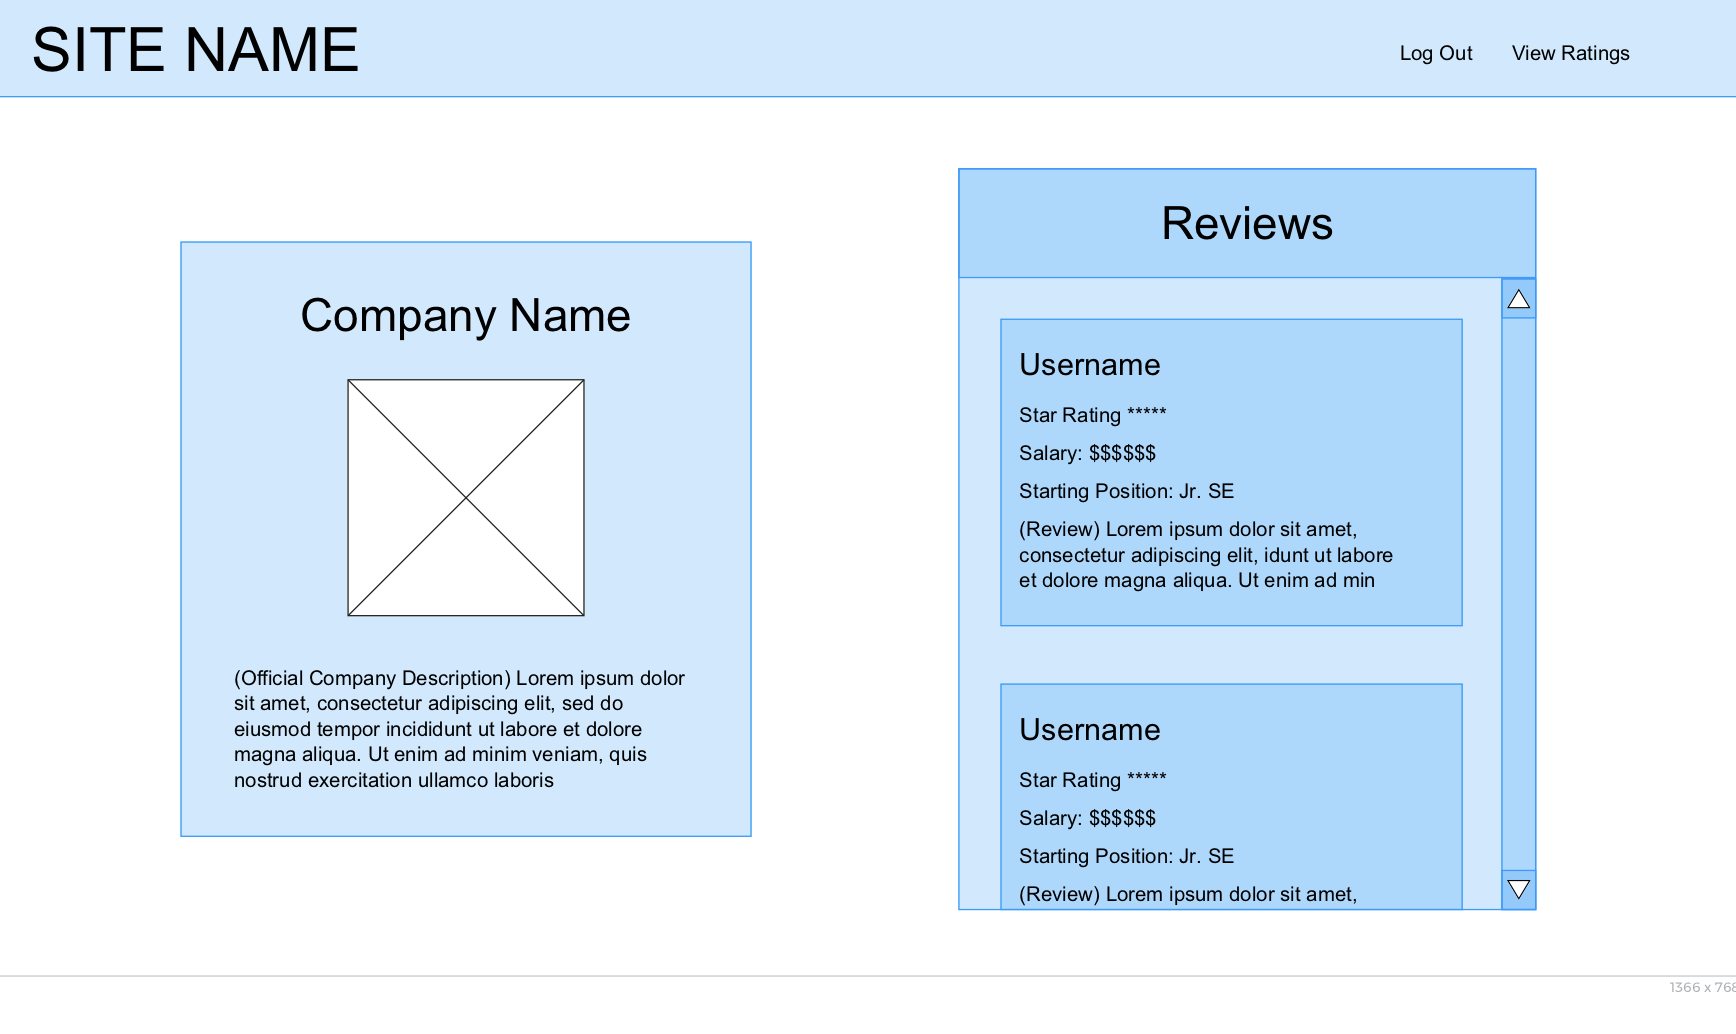
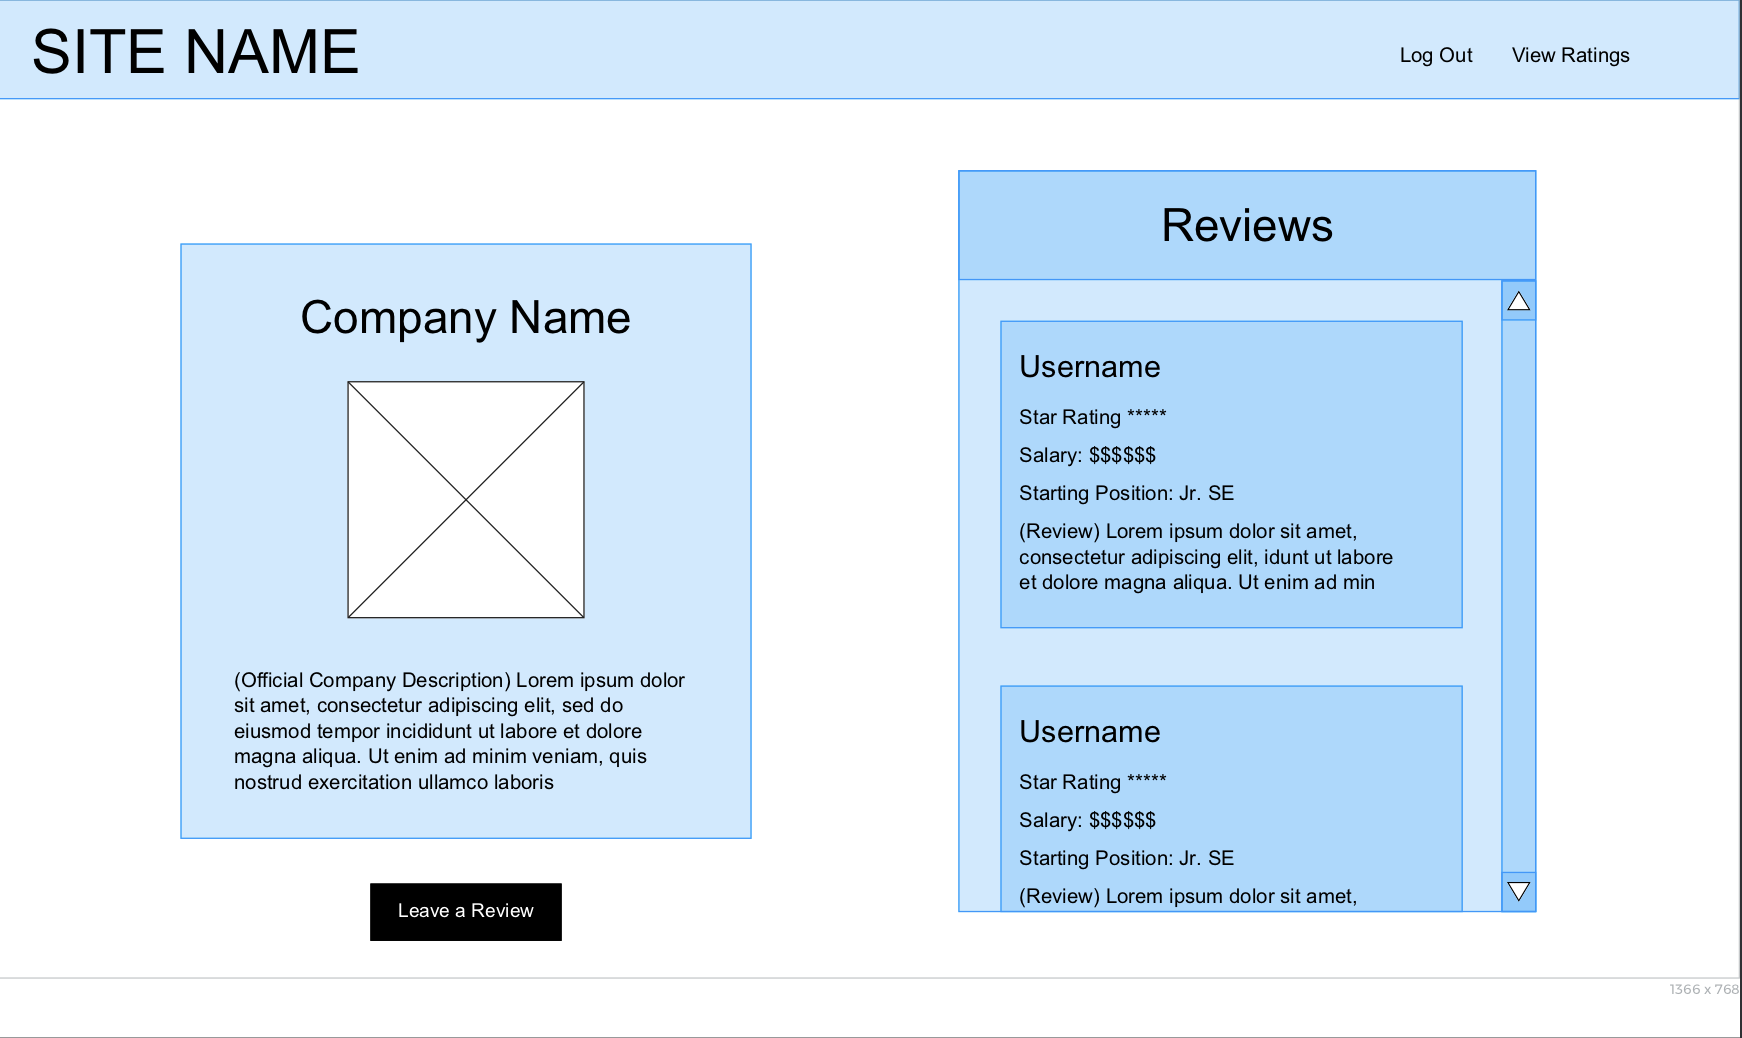
show page wireframe updated to include button

diff --git a/README.md b/README.md
@@ -23,10 +23,12 @@ As a user I want the ability to…
     - Description of company
     - Company's advertised values
 - Browse companies using a search function
-- Have a snapshot of each company that shows a general rating from 1-5 with decimals (i.e. 4.3, 1.5 etc.)
-- Have a “show” page for each company that has more information
-- Create reviews that can be as in depth or short as the user wants, to a certain point. ( there needs to be a general rating at the very least)
+- View a snapshot of each company that shows a general rating from 1-5 with decimals (i.e. 4.3, 1.5 etc.)
+- View a “show” page for each company that has more information
 - Comment both on the company and individual reviews
+
+- Create reviews that can be as in depth or short as the user wants, to a certain point. ( there needs to be a general rating at the very least)
+
 
 - MVP Reviews will contain
     - General rating from 1-5
